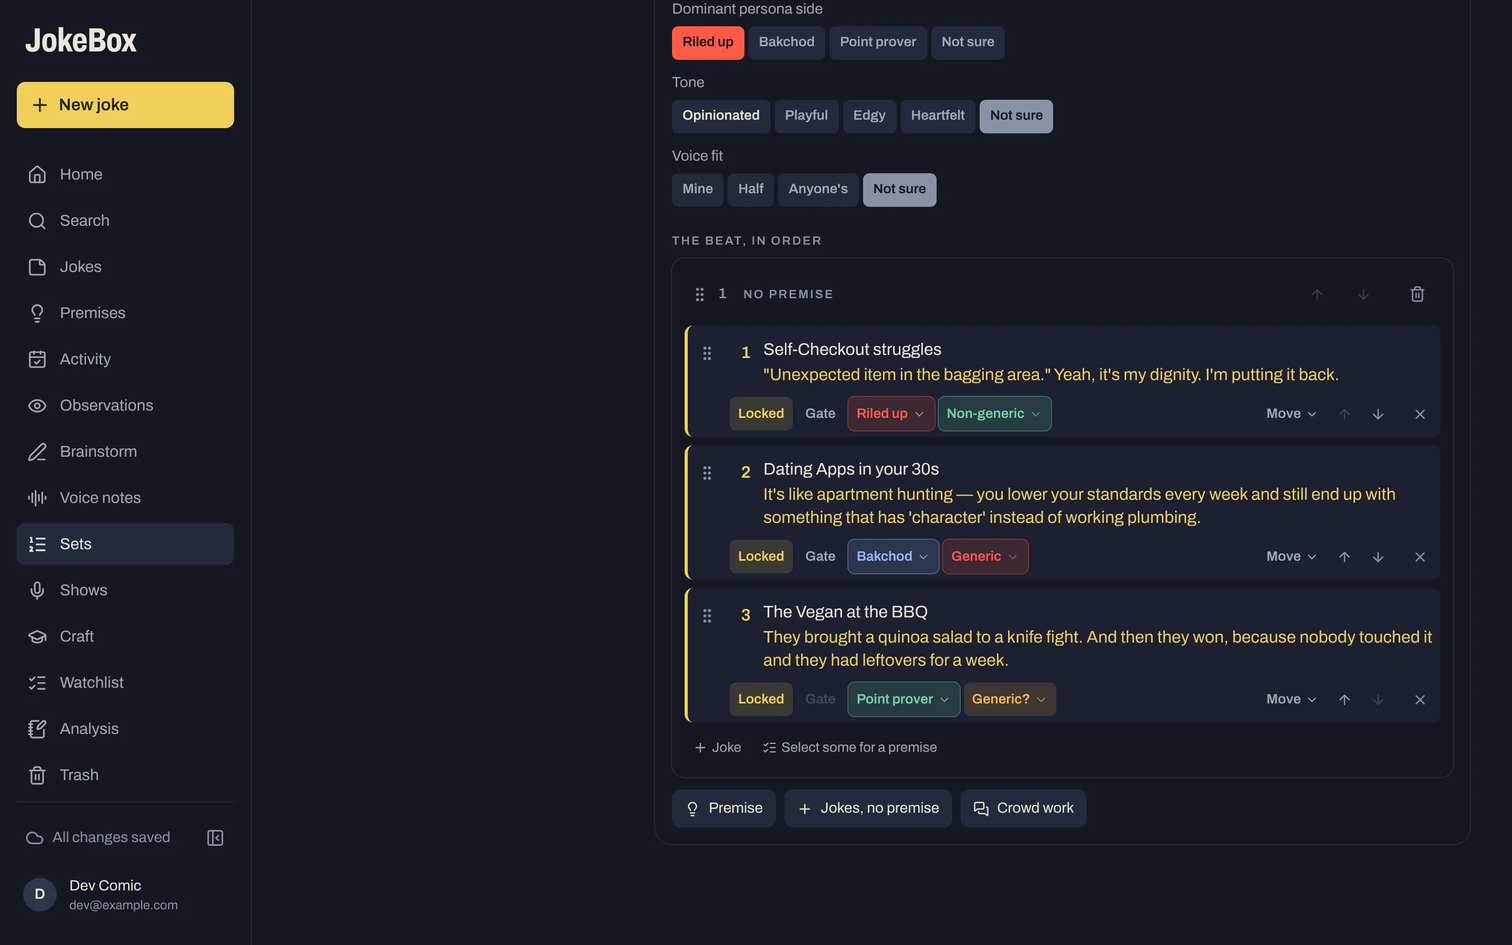
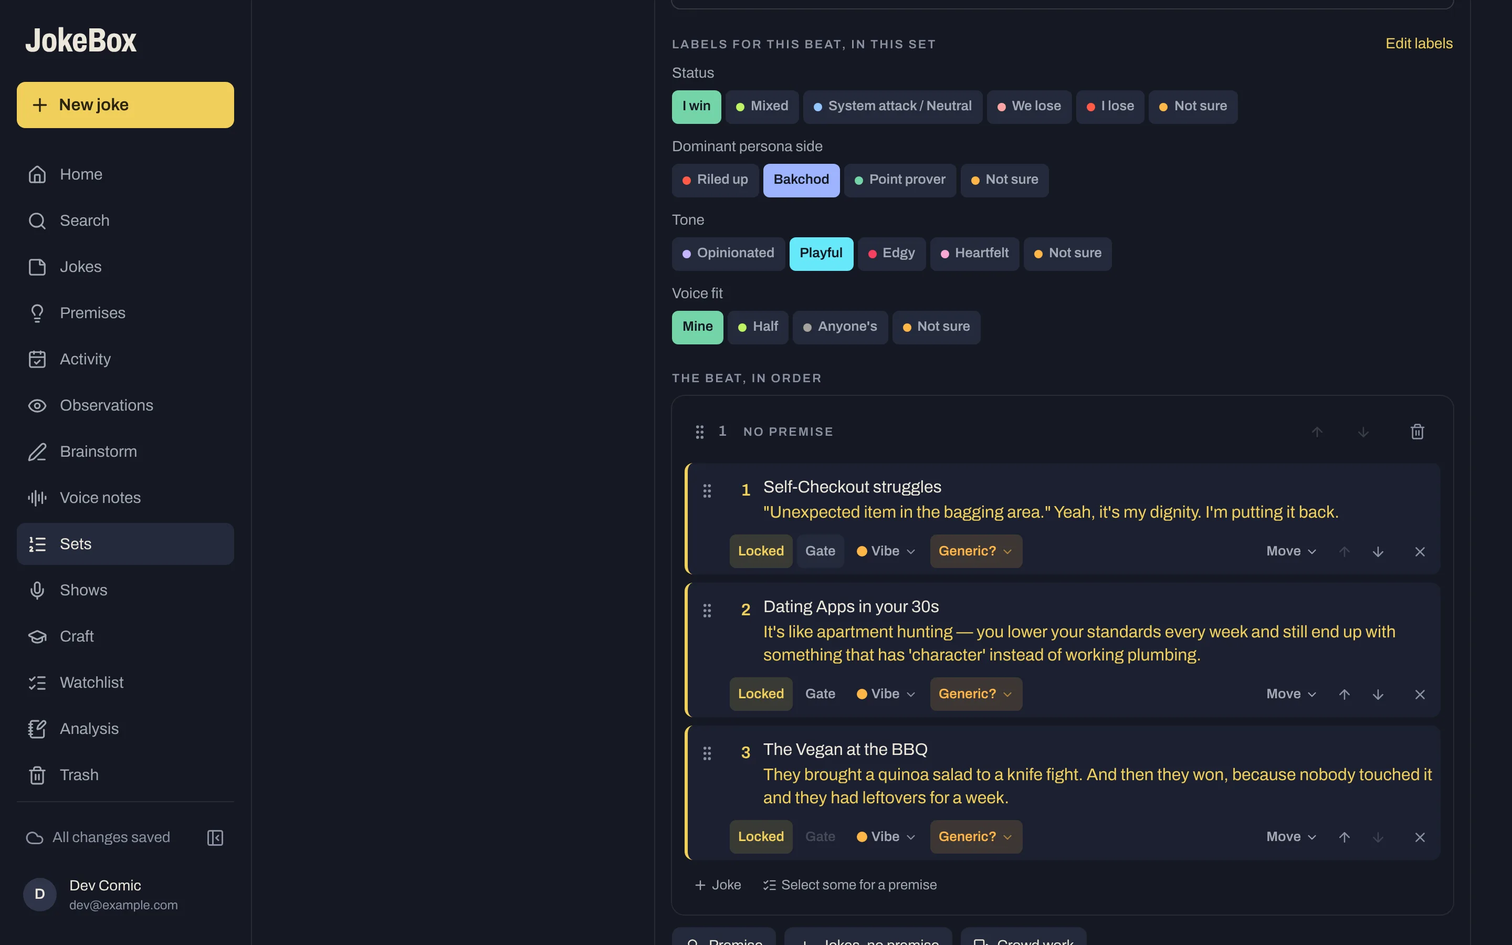
Colour every set label option, with a swatch picker in Label fields (#205)
* Colour every set label option, with a swatch picker in Label fields

Claude-Session: https://claude.ai/code/session_019rjoQpmUu6biKGkvGKFQqC

* Screenshots of coloured labels and the swatch panel

Claude-Session: https://claude.ai/code/session_019rjoQpmUu6biKGkvGKFQqC

---------

diff --git a/web/src/features/sets/FieldsSheet.tsx b/web/src/features/sets/FieldsSheet.tsx
@@ -3,7 +3,8 @@
  * it). One field can be drawn as the status track (its options say win, neutral or loss, which
  * the checks read), and one can be the persona: the persona check counts it, and a joke's persona
  * picks from it. Not sure is always there and can't be removed. Deleting an option, or a field,
- * says first how many beats and jokes it's on: they turn to Not sure. Saved for every set on Done.
+ * says first how many beats and jokes it's on: they turn to Not sure. Each option has a colour: tap
+ * its dot for the swatches (a new option gets one its field isn't using). Saved for every set on Done.
  */
 import { Plus, X } from 'lucide-react'
 import { useState } from 'react'
@@ -16,6 +17,7 @@ import { Button } from '../../components/ui/Button'
 import { Input, Select } from '../../components/ui/Field'
 import { Modal } from '../../components/ui/Modal'
 import { useFeedback } from '../../components/ui/feedbackContext'
+import { LABEL_PALETTE, NOT_SURE_COLOR, nextLabelColor, optionColor } from '../../lib/labelColors'
 import { NOT_SURE } from './beats'
 import { optionUsage, usageText } from './fieldUsage'
 
@@ -34,10 +36,13 @@ interface CardProps {
 
 function FieldCard({ field, onChange, onDelete, onRemoveOption, onRenameOption, roleTaken }: CardProps) {
   const [adding, setAdding] = useState('')
+  const [painting, setPainting] = useState<string | null>(null)
+  const paint = painting ? field.options.find((o) => o.id === painting) : undefined
+  const recolor = (id: string, color: string) => onChange({ ...field, options: field.options.map((x) => (x.id === id ? { ...x, color } : x)) })
   const add = () => {
     const label = adding.trim()
     if (!label || same(label, NOT_SURE) || field.options.length >= MAX_OPTIONS || field.options.some((o) => same(o.label, label))) return
-    onChange({ ...field, options: [...field.options, { id: newId(), label, group: field.role === 'status' ? 'neutral' : null }] })
+    onChange({ ...field, options: [...field.options, { id: newId(), label, group: field.role === 'status' ? 'neutral' : null, color: nextLabelColor(field.options) }] })
     setAdding('')
   }
   return (
@@ -55,6 +60,8 @@ function FieldCard({ field, onChange, onDelete, onRemoveOption, onRenameOption, 
       <ul className="mt-3 flex flex-wrap gap-1.5">
         {field.options.map((o) => (
           <li key={o.id} className="inline-flex items-center gap-1 rounded-full bg-ink-3 py-0.5 pr-1 pl-1 text-sm">
+            <button type="button" aria-label={`Colour of ${o.label}`} aria-expanded={painting === o.id} title="Colour" onClick={() => setPainting(painting === o.id ? null : o.id)}
+              className="inline-flex size-6 items-center justify-center rounded-full hover:bg-ink-4"><span aria-hidden className={`size-3.5 rounded-full ${painting === o.id ? 'ring-2 ring-paper ring-offset-1 ring-offset-ink-3' : ''}`} style={{ backgroundColor: optionColor(o) }} /></button>
             <button type="button" aria-label={`Rename ${o.label}`} title="Rename" className="rounded-full px-1.5 py-0.5 hover:bg-ink-4" onClick={() => onRenameOption(o)}>{o.label}</button>
             {field.role === 'status' && (
               <select aria-label={`What ${o.label} counts as`} value={o.group ?? 'neutral'} className="rounded bg-ink-4 px-1 text-xs text-dim"
@@ -66,8 +73,16 @@ function FieldCard({ field, onChange, onDelete, onRemoveOption, onRenameOption, 
               onClick={() => onRemoveOption(o)}><X size={13} /></button>
           </li>
         ))}
-        <li className="rounded-full px-2.5 py-0.5 text-sm text-faint ring-1 ring-rule">{NOT_SURE}</li>
+        <li className="inline-flex items-center gap-1.5 rounded-full px-2.5 py-0.5 text-sm text-faint ring-1 ring-rule"><span aria-hidden className="size-2.5 rounded-full" style={{ backgroundColor: NOT_SURE_COLOR }} />{NOT_SURE}</li>
       </ul>
+      {paint && (
+        <div role="radiogroup" aria-label={`Colour for ${paint.label}`} className="mt-2 flex flex-wrap gap-1.5 rounded-lg bg-ink-2 p-2 ring-1 ring-rule">
+          {LABEL_PALETTE.map(({ name, color: c }) => (
+            <button key={c} type="button" role="radio" aria-checked={optionColor(paint) === c} aria-label={name} title={name} onClick={() => { recolor(paint.id, c); setPainting(null) }}
+              className={`size-7 rounded-full pointer-coarse:size-9 ${optionColor(paint) === c ? 'ring-2 ring-paper ring-offset-2 ring-offset-ink-2' : 'hover:scale-110'}`} style={{ backgroundColor: c }} />
+          ))}
+        </div>
+      )}
       <div className="mt-2 flex gap-2">
         <Input aria-label={`New option for ${field.name}`} placeholder="New option" value={adding} maxLength={80} onChange={(e) => setAdding(e.target.value)} onKeyDown={(e) => { if (e.key === 'Enter') { e.preventDefault(); add() } }} />
         <Button small onClick={add}>Add</Button>

diff --git a/web/src/features/sets/BeatLabels.tsx b/web/src/features/sets/BeatLabels.tsx
@@ -3,16 +3,23 @@
  * another set). Not sure is always there. When the status changes from the beat before, it asks
  * why: Top-up, Planned turn or Clash ("Shift, don't flip").
  */
-import type { Beat, SetField } from '../../api/types'
-import { vibeTone } from '../jokes/vibeTone'
+import type { Beat, SetField, SetFieldOption } from '../../api/types'
+import { filled, optionColor } from '../../lib/labelColors'
 import { NOT_SURE, SHIFT_REASONS, labelOf, statusField } from './beats'
 
 const seg = (on: boolean, unsure = false) =>
   `min-h-8 rounded-md px-2.5 py-1 text-[13px] font-semibold transition-colors ${on ? (unsure ? 'bg-faint text-ink' : 'bg-paper text-ink') : 'bg-ink-3 text-dim hover:text-paper'}`
 
-/** Dominant persona side wears the Vibe colours (vibeTone); other fields stay plain. */
-const segFor = (persona: boolean, id: string | null, on: boolean) =>
-  persona && on ? `min-h-8 rounded-md px-2.5 py-1 text-[13px] font-semibold transition-colors ${vibeTone(id).on}` : seg(on, id === null)
+/** Every option wears its colour (lib/labelColors): a dot until it's picked, then filled. Not sure is amber. */
+function Option({ option, on, label, onPick }: { option: SetFieldOption | null; on: boolean; label: string; onPick: () => void }) {
+  const hex = optionColor(option)
+  return (
+    <button type="button" aria-pressed={on} onClick={onPick} style={on ? filled(hex) : undefined}
+      className={`inline-flex min-h-8 items-center gap-1.5 rounded-md px-2.5 py-1 text-[13px] font-semibold transition-colors ${on ? '' : 'bg-ink-3 text-dim hover:text-paper'}`}>
+      {!on && <span aria-hidden className="size-2 shrink-0 rounded-full" style={{ backgroundColor: hex }} />}{label}
+    </button>
+  )
+}
 
 interface Props {
   beat: Beat
@@ -40,10 +47,8 @@ export function BeatLabels({ beat, previous, fields, needsWhy, onChange }: Props
           <div key={f.id}>
             <p className="mb-1.5 text-sm text-dim">{f.name}</p>
             <div className="flex flex-wrap gap-1" role="group" aria-label={f.name}>
-              {f.options.map((o) => (
-                <button key={o.id} type="button" aria-pressed={current?.id === o.id} className={segFor(f.role === 'persona', o.id, current?.id === o.id)} onClick={() => set(f.id, o.id)}>{o.label}</button>
-              ))}
-              <button type="button" aria-pressed={!current} className={segFor(f.role === 'persona', null, !current)} onClick={() => set(f.id, null)}>{NOT_SURE}</button>
+              {f.options.map((o) => <Option key={o.id} option={o} label={o.label} on={current?.id === o.id} onPick={() => set(f.id, o.id)} />)}
+              <Option option={null} label={NOT_SURE} on={!current} onPick={() => set(f.id, null)} />
             </div>
           </div>
         )

diff --git a/web/src/lib/labelColors.ts b/web/src/lib/labelColors.ts
@@ -1,0 +1,43 @@
+/**
+ * Colours for set label options (Status, Dominant persona side, Tone, Voice fit and your own).
+ * Each option stores a hex `color`; one saved before colours existed gets its default by id here
+ * (the same map is in app/services/set_fields.py, which fills it in on the way out). Not sure is
+ * always amber. Hex rather than Tailwind classes, since a colour you pick only exists at runtime.
+ */
+import type { CSSProperties } from 'react'
+import type { SetFieldOption } from '../api/types'
+import { onColor } from './typeColors'
+
+export const NOT_SURE_COLOR = '#ffb547' // amber
+export const PLAIN_COLOR = '#8b91a3' // faint
+
+/** Status runs green (I win) to red (I lose); Tone matches each word; Voice fit fades to stone. */
+export const DEFAULT_OPTION_COLORS: Record<string, string> = {
+  'i-win': '#74d3a8', mixed: '#bef264', neutral: '#93c5fd', 'we-lose': '#fca5a5', 'i-lose': '#ff5a47',
+  'riled-up': '#ff5a47', bakchod: '#9db4ff', 'point-prover': '#74d3a8',
+  opinionated: '#c4b5fd', playful: '#67e8f9', edgy: '#f43f5e', heartfelt: '#f9a8d4',
+  mine: '#74d3a8', half: '#bef264', anyones: '#a8a29e',
+}
+
+/** The picker's swatches: the app's own colours and a few close to them. No amber (Not sure's) or tape yellow (the accent). */
+export const LABEL_PALETTE = Object.entries({
+  Green: '#74d3a8', Lime: '#bef264', Teal: '#6fd6d0', Cyan: '#67e8f9', Blue: '#93c5fd', Periwinkle: '#9db4ff', Violet: '#c4b5fd',
+  Orchid: '#e7a3e0', Pink: '#f9a8d4', 'Soft red': '#fca5a5', Rose: '#f43f5e', Red: '#ff5a47', Stone: '#a8a29e', Silver: '#cbd5e1',
+}).map(([name, color]) => ({ name, color }))
+
+/** A new option's colour: the first swatch its field isn't using yet. */
+export function nextLabelColor(options: SetFieldOption[]): string {
+  const used = new Set(options.map((o) => optionColor(o).toLowerCase()))
+  return (LABEL_PALETTE.find((s) => !used.has(s.color)) ?? LABEL_PALETTE[options.length % LABEL_PALETTE.length]).color
+}
+
+/** An option's colour; no option (unset or deleted) is Not sure's amber. */
+export function optionColor(o: SetFieldOption | null | undefined): string {
+  if (!o) return NOT_SURE_COLOR
+  return o.color ?? DEFAULT_OPTION_COLORS[o.id] ?? PLAIN_COLOR
+}
+
+/** Picked: filled with the colour, ink or paper text on it. */
+export const filled = (hex: string): CSSProperties => ({ backgroundColor: hex, color: onColor(hex) })
+/** A quiet chip: a wash of the colour, its text, and a thin ring. */
+export const washed = (hex: string): CSSProperties => ({ backgroundColor: `${hex}26`, color: hex, boxShadow: `inset 0 0 0 1px ${hex}66` })

diff --git a/web/src/features/jokes/DetailControls.tsx b/web/src/features/jokes/DetailControls.tsx
@@ -9,7 +9,7 @@ import { choice } from '../../components/ui/choice'
 import { NewTypeDialog } from './NewTypeDialog'
 import { GENERIC_ASK, NOT_SURE, VIBE } from './persona'
 import { VibeDot } from './VibeDot'
-import { genericTone, vibeTone } from './vibeTone'
+import { genericTone, useVibeTone } from './vibeTone'
 
 export function TypeToggles({ value, onChange }: { value: string[]; onChange: (v: string[]) => void }) {
   const { data: types = [] } = useTypes()
@@ -44,18 +44,18 @@ export function CleanPicker({ value, onChange }: { value: CleanRating | null; on
   )
 }
 
-const vibeChoice = (id: string | null, on: boolean) =>
-  `hit relative inline-flex h-9 items-center gap-2 rounded-lg px-3 text-sm transition ${on ? vibeTone(id).on : 'bg-ink-3 text-dim hover:text-paper'}`
+const vibeChoice = (on: boolean) => `hit relative inline-flex h-9 items-center gap-2 rounded-lg px-3 text-sm transition ${on ? 'font-medium' : 'bg-ink-3 text-dim hover:text-paper'}`
 
 /** Its vibe: the side of you it shows, from your persona field's options. Not sure is always there. */
 export function PersonaPicker({ field, value, onChange }: { field: SetField; value: string | null; onChange: (v: string | null) => void }) {
   const current = field.options.some((o) => o.id === value) ? value : null
+  const tone = useVibeTone()
   return (
     <div className="flex flex-wrap gap-2" role="radiogroup" aria-label={VIBE}>
       {field.options.map((o) => (
-        <button key={o.id} type="button" role="radio" aria-checked={current === o.id} onClick={() => onChange(o.id)} className={vibeChoice(o.id, current === o.id)}><VibeDot id={o.id} />{o.label}</button>
+        <button key={o.id} type="button" role="radio" aria-checked={current === o.id} onClick={() => onChange(o.id)} className={vibeChoice(current === o.id)} style={current === o.id ? tone(o.id).on : undefined}><VibeDot id={o.id} />{o.label}</button>
       ))}
-      <button type="button" role="radio" aria-checked={!current} onClick={() => onChange(null)} className={vibeChoice(null, !current)}><VibeDot id={null} />{NOT_SURE}</button>
+      <button type="button" role="radio" aria-checked={!current} onClick={() => onChange(null)} className={vibeChoice(!current)} style={!current ? tone(null).on : undefined}><VibeDot id={null} />{NOT_SURE}</button>
     </div>
   )
 }

diff --git a/web/src/features/jokes/vibeTone.ts b/web/src/features/jokes/vibeTone.ts
@@ -1,20 +1,21 @@
 /**
- * A Vibe's colour, so a set reads at a glance: Riled up red, Bakchod blue, Point prover green,
- * Not sure orange. Keyed by the default options' ids, so a renamed option keeps its colour; an
- * option you add yourself stays neutral. Classes are written out whole for Tailwind to find.
+ * A Vibe's colour is its persona option's colour (Riled up red, Bakchod blue, Point prover green
+ * by default, or what you picked in Edit labels); Not sure is orange. Generic is red, Non-generic green.
  */
-interface Tone { dot: string; chip: string; on: string }
+import type { CSSProperties } from 'react'
+import { filled, optionColor, washed } from '../../lib/labelColors'
+import { usePersonaField } from './persona'
 
-const TONES: Record<string, Tone> = {
-  'riled-up': { dot: 'bg-light', chip: 'bg-light/15 text-light ring-1 ring-light/40', on: 'bg-light text-ink font-medium' },
-  bakchod: { dot: 'bg-sky', chip: 'bg-sky/15 text-sky ring-1 ring-sky/40', on: 'bg-sky text-ink font-medium' },
-  'point-prover': { dot: 'bg-ok', chip: 'bg-ok/15 text-ok ring-1 ring-ok/40', on: 'bg-ok text-ink font-medium' },
-}
-const NOT_SURE_TONE: Tone = { dot: 'bg-amber', chip: 'bg-amber/15 text-amber', on: 'bg-amber text-ink font-medium' }
-const PLAIN: Tone = { dot: 'bg-dim', chip: 'text-paper ring-1 ring-rule-strong', on: 'bg-paper text-ink font-medium' }
+export interface Tone { dot: CSSProperties; chip: CSSProperties; on: CSSProperties }
 
 /** The tone for an option id; null (unset or deleted) is Not sure. */
-export const vibeTone = (id: string | null | undefined): Tone => (id ? (TONES[id] ?? PLAIN) : NOT_SURE_TONE)
+export function useVibeTone(): (id: string | null | undefined) => Tone {
+  const field = usePersonaField()
+  return (id) => {
+    const hex = optionColor(id ? (field?.options.find((o) => o.id === id) ?? { id, label: '' }) : null)
+    return { dot: { backgroundColor: hex }, chip: washed(hex), on: filled(hex) }
+  }
+}
 
 /** Generic red (anyone could do it), Non-generic green: a chip and a picked button. */
 export const genericTone = (generic: boolean) =>

diff --git a/web/src/features/sets/SetGuide.tsx b/web/src/features/sets/SetGuide.tsx
@@ -51,7 +51,7 @@ export function SetGuide({ open, onOpenChange }: { open: boolean; onOpenChange: 
         <Part title="Clusters">A cluster shows once when you add jokes, and adds its lead. A version from a cluster plays the cluster's lead, so changing the lead in Jokes changes the set. Pick another version to pin that one in this set whatever the lead is.</Part>
         <Part title="Labels">
           <p>Each beat gets labels in this set, not on the jokes, because the same joke can play a different status somewhere else. The fields start as Status, Dominant persona side, Tone and Voice fit. Not sure is always there.</p>
-          <p>Tap <b className="text-paper">Edit labels</b> to add, rename or delete options and fields. Deleting one tells you how many beats have it first, and they turn to Not sure.</p>
+          <p>Tap <b className="text-paper">Edit labels</b> to add, rename, recolour or delete options and fields (tap an option's dot for its colour). Deleting one tells you how many beats have it first, and they turn to Not sure.</p>
           <p>Each joke and premise has its own <b className="text-paper">Vibe</b> (Riled up, Bakchod or Point prover, the sides of Dominant persona side) and <b className="text-paper">Generic</b> or Non-generic. Set them right in the set, beside Locked and Gate, or on the joke's or premise's page. Vibes wear colours (Riled up red, Bakchod blue, Point prover green, Not sure orange), Generic is red and Non-generic green, and Vibes wear colours (Riled up red, Bakchod blue, Point prover green, Not sure orange), Generic is red and Non-generic green, and Generic shows in amber until you answer it.</p>
           <p>Status options count as a win, neutral (System attack: you and the room against the system together) or a loss. A loss is a humility top-up.</p>
         </Part>

diff --git a/web/src/features/jokes/MaterialTags.tsx b/web/src/features/jokes/MaterialTags.tsx
@@ -7,7 +7,7 @@ import { ChevronDown } from 'lucide-react'
 import { Dropdown, type MenuItem } from '../../components/ui/Menu'
 import { GENERIC_ASK, NOT_SURE, VIBE, genericLabel, personaLabel, usePersonaField } from './persona'
 import { VibeDot } from './VibeDot'
-import { genericTone, vibeTone } from './vibeTone'
+import { genericTone, useVibeTone } from './vibeTone'
 
 const chip = 'inline-flex h-8 items-center gap-1 rounded-md px-2 text-[13px] font-semibold transition-colors pointer-coarse:h-10'
 
@@ -15,6 +15,7 @@ export interface Tags { persona?: string | null; generic?: boolean | null }
 
 export function MaterialTags({ value, onChange, what }: { value: Tags; onChange: (patch: Tags) => void; what: string }) {
   const field = usePersonaField()
+  const vibeTone = useVibeTone()
   const vibe = personaLabel(value.persona, field)
   const vibeId = vibe ? value.persona : null
   const generic = genericLabel(value.generic)
@@ -30,7 +31,7 @@ export function MaterialTags({ value, onChange, what }: { value: Tags; onChange:
     <>
       {field && (
         <Dropdown align="start" items={vibeItems} trigger={
-          <button type="button" aria-label={`${VIBE} of ${what}: ${vibe ?? NOT_SURE}`} className={`${chip} ${vibe ? vibeTone(vibeId).chip : 'text-dim hover:bg-ink-3'}`}>
+          <button type="button" aria-label={`${VIBE} of ${what}: ${vibe ?? NOT_SURE}`} className={`${chip} ${vibe ? '' : 'text-dim hover:bg-ink-3'}`} style={vibe ? vibeTone(vibeId).chip : undefined}>
             {!vibe && <VibeDot id={null} />}{vibe ?? VIBE}<ChevronDown size={13} className="text-faint" />
           </button>
         } />

diff --git a/web/src/lib/labelColors.test.ts b/web/src/lib/labelColors.test.ts
@@ -1,0 +1,15 @@
+import { describe, expect, it } from 'vitest'
+import { LABEL_PALETTE, NOT_SURE_COLOR, PLAIN_COLOR, nextLabelColor, optionColor } from './labelColors'
+
+describe('label colours', () => {
+  it('uses the stored colour, then the default by id, then plain; no option is Not sure', () => {
+    expect(optionColor({ id: 'i-win', label: 'I win', color: '#cbd5e1' })).toBe('#cbd5e1')
+    expect(optionColor({ id: 'i-lose', label: 'I lose' })).toBe('#ff5a47')
+    expect(optionColor({ id: 'x1', label: 'Mine own' })).toBe(PLAIN_COLOR)
+    expect(optionColor(null)).toBe(NOT_SURE_COLOR)
+  })
+  it('gives a new option a swatch its field is not using', () => {
+    const used = [{ id: 'a', label: 'A', color: LABEL_PALETTE[0].color }, { id: 'mixed', label: 'Mixed' }]
+    expect(nextLabelColor(used)).toBe(LABEL_PALETTE[2].color)
+  })
+})

diff --git a/web/src/api/setTypes.ts b/web/src/api/setTypes.ts
@@ -45,7 +45,8 @@ export interface Beat {
 }
 
 export type StatusGroup = 'win' | 'neutral' | 'loss'
-export interface SetFieldOption { id: string; label: string; group?: StatusGroup | null }
+/** `color` is hex; missing on one saved before colours, which then gets its default (lib/labelColors). */
+export interface SetFieldOption { id: string; label: string; group?: StatusGroup | null; color?: string | null }
 export interface SetField { id: string; name: string; role?: 'status' | 'persona' | null; options: SetFieldOption[] }
 export interface SetFields { fields: SetField[]; top_up_seconds: number }
 

diff --git a/web/src/features/jokes/VibeDot.tsx b/web/src/features/jokes/VibeDot.tsx
@@ -1,6 +1,6 @@
 /** A Vibe's colour as a small dot, beside its name in menus, pickers and the peek. */
-import { vibeTone } from './vibeTone'
+import { useVibeTone } from './vibeTone'
 
 export function VibeDot({ id }: { id: string | null | undefined }) {
-  return <span aria-hidden className={`inline-block size-2.5 shrink-0 rounded-full ${vibeTone(id).dot}`} />
+  return <span aria-hidden className="inline-block size-2.5 shrink-0 rounded-full" style={useVibeTone()(id).dot} />
 }

diff --git a/app/services/set_fields.py b/app/services/set_fields.py
@@ -62,20 +62,65 @@ DEFAULT_FIELDS: list[dict[str, Any]] = [
 ]
 
 
+# Each default option's colour (web/src/lib/labelColors.ts has the same map): Status runs green
+# to red, Tone matches the word, Voice fit fades to stone. Filled in for options saved without one.
+DEFAULT_COLORS = {
+    "i-win": "#74d3a8",
+    "mixed": "#bef264",
+    "neutral": "#93c5fd",
+    "we-lose": "#fca5a5",
+    "i-lose": "#ff5a47",
+    "riled-up": "#ff5a47",
+    "bakchod": "#9db4ff",
+    "point-prover": "#74d3a8",
+    "opinionated": "#c4b5fd",
+    "playful": "#67e8f9",
+    "edgy": "#f43f5e",
+    "heartfelt": "#f9a8d4",
+    "mine": "#74d3a8",
+    "half": "#bef264",
+    "anyones": "#a8a29e",
+}
+
+
+def with_colors(fields: list[dict[str, Any]]) -> list[dict[str, Any]]:
+    """Options with no colour get their default by id (others stay None: shown plain)."""
+    return [
+        {
+            **f,
+            "options": [
+                {**o, "color": o.get("color") or DEFAULT_COLORS.get(o["id"])}
+                for o in f.get("options", [])
+            ],
+        }
+        for f in fields
+    ]
+
+
 def config_of(db: Session, user: User) -> SetFieldConfig | None:
     return db.scalar(select(SetFieldConfig).where(SetFieldConfig.user_id == user.id))
 
 
 def fields_out(config: SetFieldConfig | None) -> SetFieldsOut:
     if config is None:
-        return SetFieldsOut.model_validate({"fields": DEFAULT_FIELDS})
-    return SetFieldsOut(fields=config.fields, top_up_seconds=config.top_up_seconds)  # type: ignore[arg-type]
+        return SetFieldsOut.model_validate({"fields": with_colors(DEFAULT_FIELDS)})
+    return SetFieldsOut.model_validate(
+        {"fields": with_colors(config.fields), "top_up_seconds": config.top_up_seconds}
+    )
 
 
 def save_fields(db: Session, user: User, body: SetFieldsIn) -> SetFieldsOut:
     """The whole list at once; the last save wins (it's settings, edited in one place)."""
     config = config_of(db, user) or SetFieldConfig(user_id=user.id, fields=[])
-    config.fields = [f.model_dump(mode="json") for f in body.fields]
+    stored = {
+        (f["id"], o["id"]): o.get("color") for f in config.fields for o in f.get("options", [])
+    }
+    fields = [f.model_dump(mode="json") for f in body.fields]
+    for f, field_in in zip(fields, body.fields, strict=True):
+        for o, option_in in zip(f["options"], field_in.options, strict=True):
+            if "color" not in option_in.model_fields_set:  # an older app: keep what's stored
+                o["color"] = stored.get((f["id"], o["id"]))
+    config.fields = fields
     config.top_up_seconds = body.top_up_seconds
     db.add(config)
     db.commit()

diff --git a/tests/test_set_field_colors.py b/tests/test_set_field_colors.py
@@ -1,0 +1,31 @@
+"""Label options carry a colour: defaults by id, kept when an older app's save leaves it out."""
+
+from fastapi.testclient import TestClient
+
+
+def test_default_options_come_with_their_colours(alice: TestClient) -> None:
+    fields = alice.get("/api/set-fields").json()["fields"]
+    status = {o["id"]: o["color"] for o in fields[0]["options"]}
+    assert status["i-win"] == "#74d3a8" and status["i-lose"] == "#ff5a47"
+    assert all(o["color"] for f in fields for o in f["options"])
+
+
+def test_a_picked_colour_is_kept_and_a_save_without_one_keeps_it(alice: TestClient) -> None:
+    fields = alice.get("/api/set-fields").json()["fields"]
+    tone = fields[2]
+    tone["options"][0]["color"] = "#cbd5e1"
+    tone["options"].append({"id": "new1", "label": "Made up", "color": "#e7a3e0"})
+    assert alice.put("/api/set-fields", json={"fields": fields}).status_code == 200
+    # An older app sends options with no colour at all.
+    old = [
+        f | {"options": [{"id": o["id"], "label": o["label"]} for o in f["options"]]}
+        for f in fields
+    ]
+    out = alice.put("/api/set-fields", json={"fields": old}).json()["fields"][2]["options"]
+    assert out[0]["color"] == "#cbd5e1" and out[-1]["color"] == "#e7a3e0"
+
+
+def test_a_colour_must_be_hex(alice: TestClient) -> None:
+    fields = alice.get("/api/set-fields").json()["fields"]
+    fields[0]["options"][0]["color"] = "red"
+    assert alice.put("/api/set-fields", json={"fields": fields}).status_code == 422
